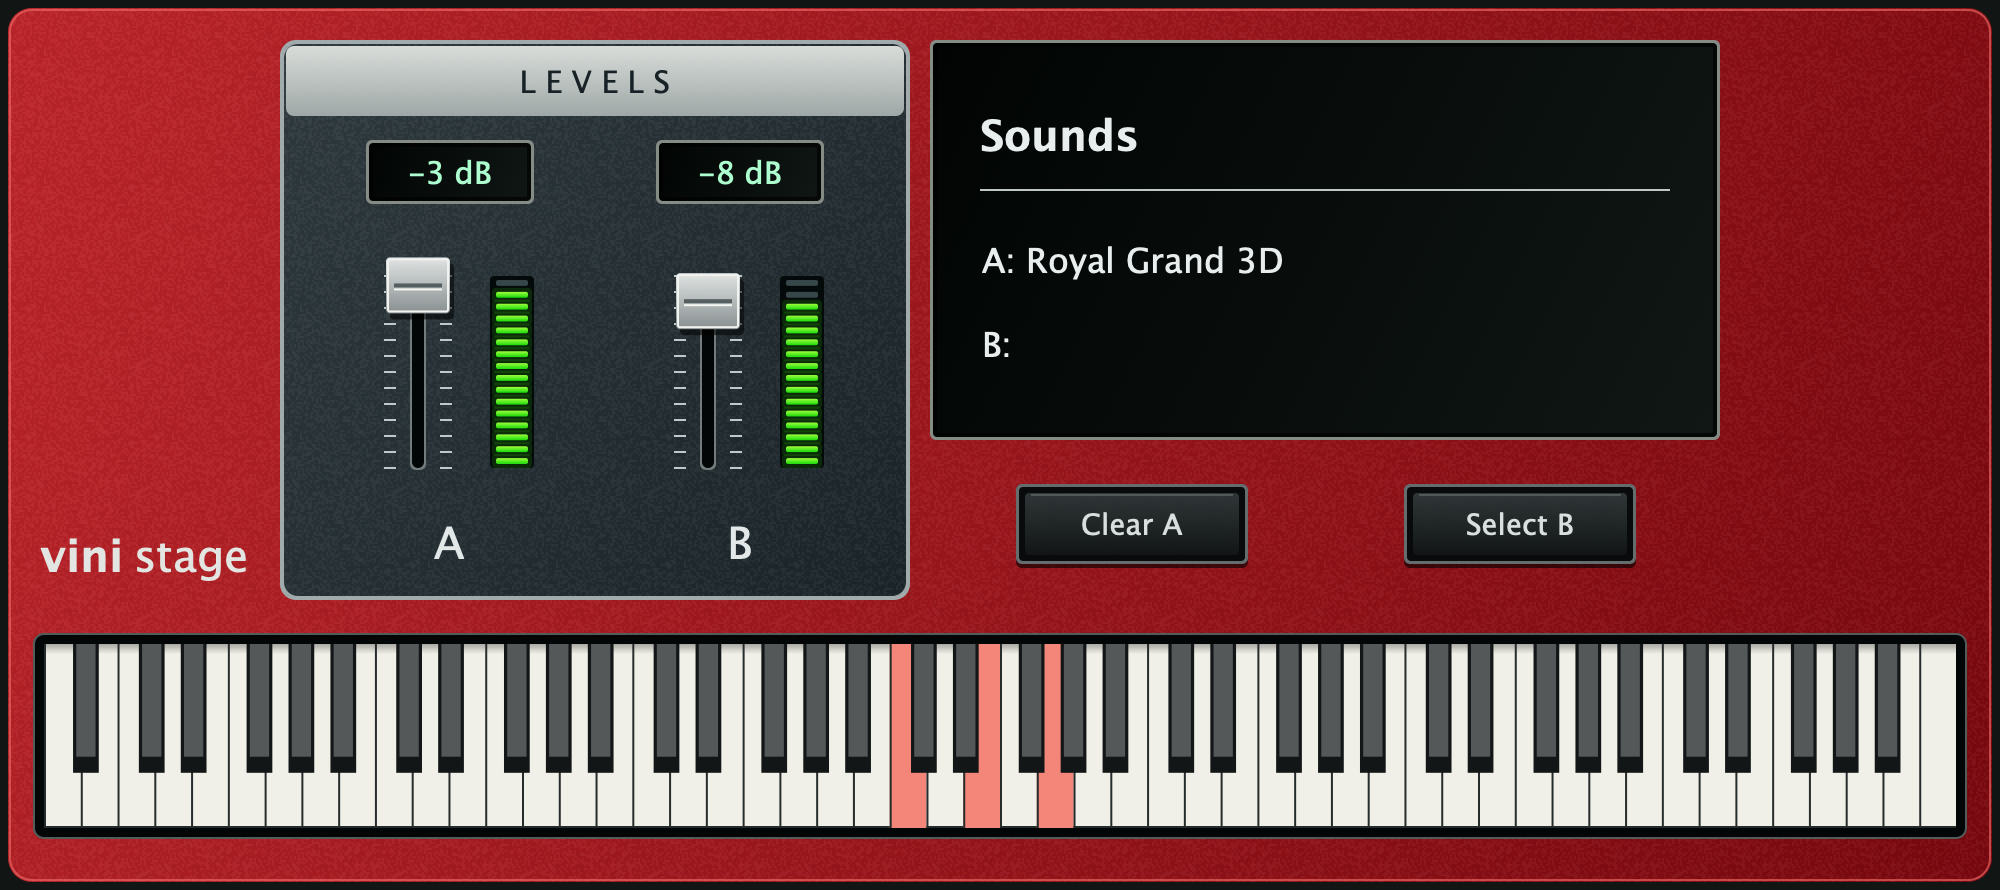
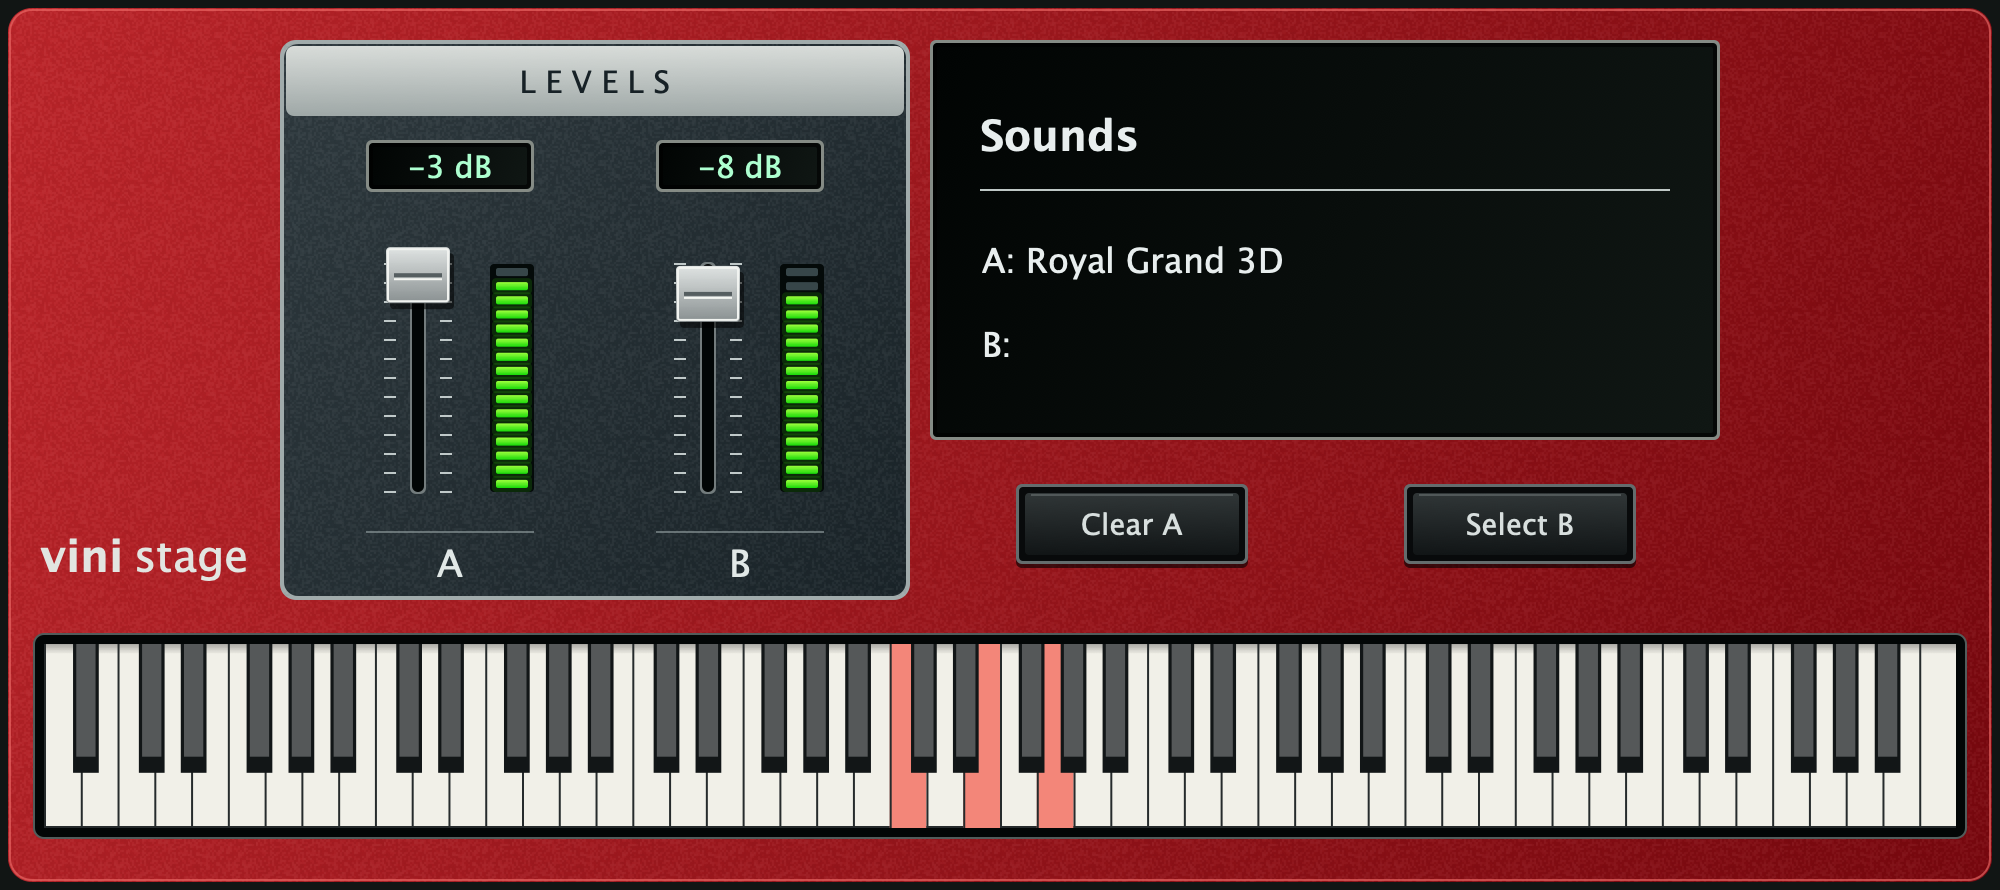
Increase fader and LED height and separate A/B labels

diff --git a/Source/Plugin.cpp b/Source/Plugin.cpp
@@ -284,8 +284,10 @@ public:
     ~VolumePanel()override{setLookAndFeel(nullptr);}
     void paint(juce::Graphics& g)override{
         Hardware::lcd(g,readout.getBounds().toFloat());
-        g.setColour(juce::Colour(0xffe1e8e7));g.setFont(Hardware::font(26));
-        g.drawText(index==0?"A":"B",0,getHeight()-36,getWidth(),30,juce::Justification::centred);
+        g.setColour(juce::Colour(0xffe1e8e7));g.setFont(Hardware::font(22));
+        g.drawText(index==0?"A":"B",0,getHeight()-22,getWidth(),22,juce::Justification::centred);
+        g.setColour(juce::Colour(0xff8d9a9b).withAlpha(0.65f));
+        g.drawLine((float)readout.getX(),(float)getHeight()-26,(float)readout.getRight(),(float)getHeight()-26,1);
         // These LEDs show the stored fader setting, not the audio signal level.
         const int lit=juce::roundToInt((float)(volume.getValue()-Volume::muteDb)/(float)-Volume::muteDb*16.0f);
         const auto track=ledBounds.toFloat();
@@ -299,8 +301,8 @@ public:
     }
     void resized()override{
         const int left=(getWidth()-84)/2;
-        readout.setBounds(left,0,84,32);
-        volume.setBounds(left,54,52,getHeight()-98);
+        readout.setBounds(left,0,84,26);
+        volume.setBounds(left,48,52,getHeight()-80);
         ledBounds={volume.getRight()+10,volume.getY()+Hardware::faderInset,22,volume.getHeight()-2*Hardware::faderInset};
     }
 private:
